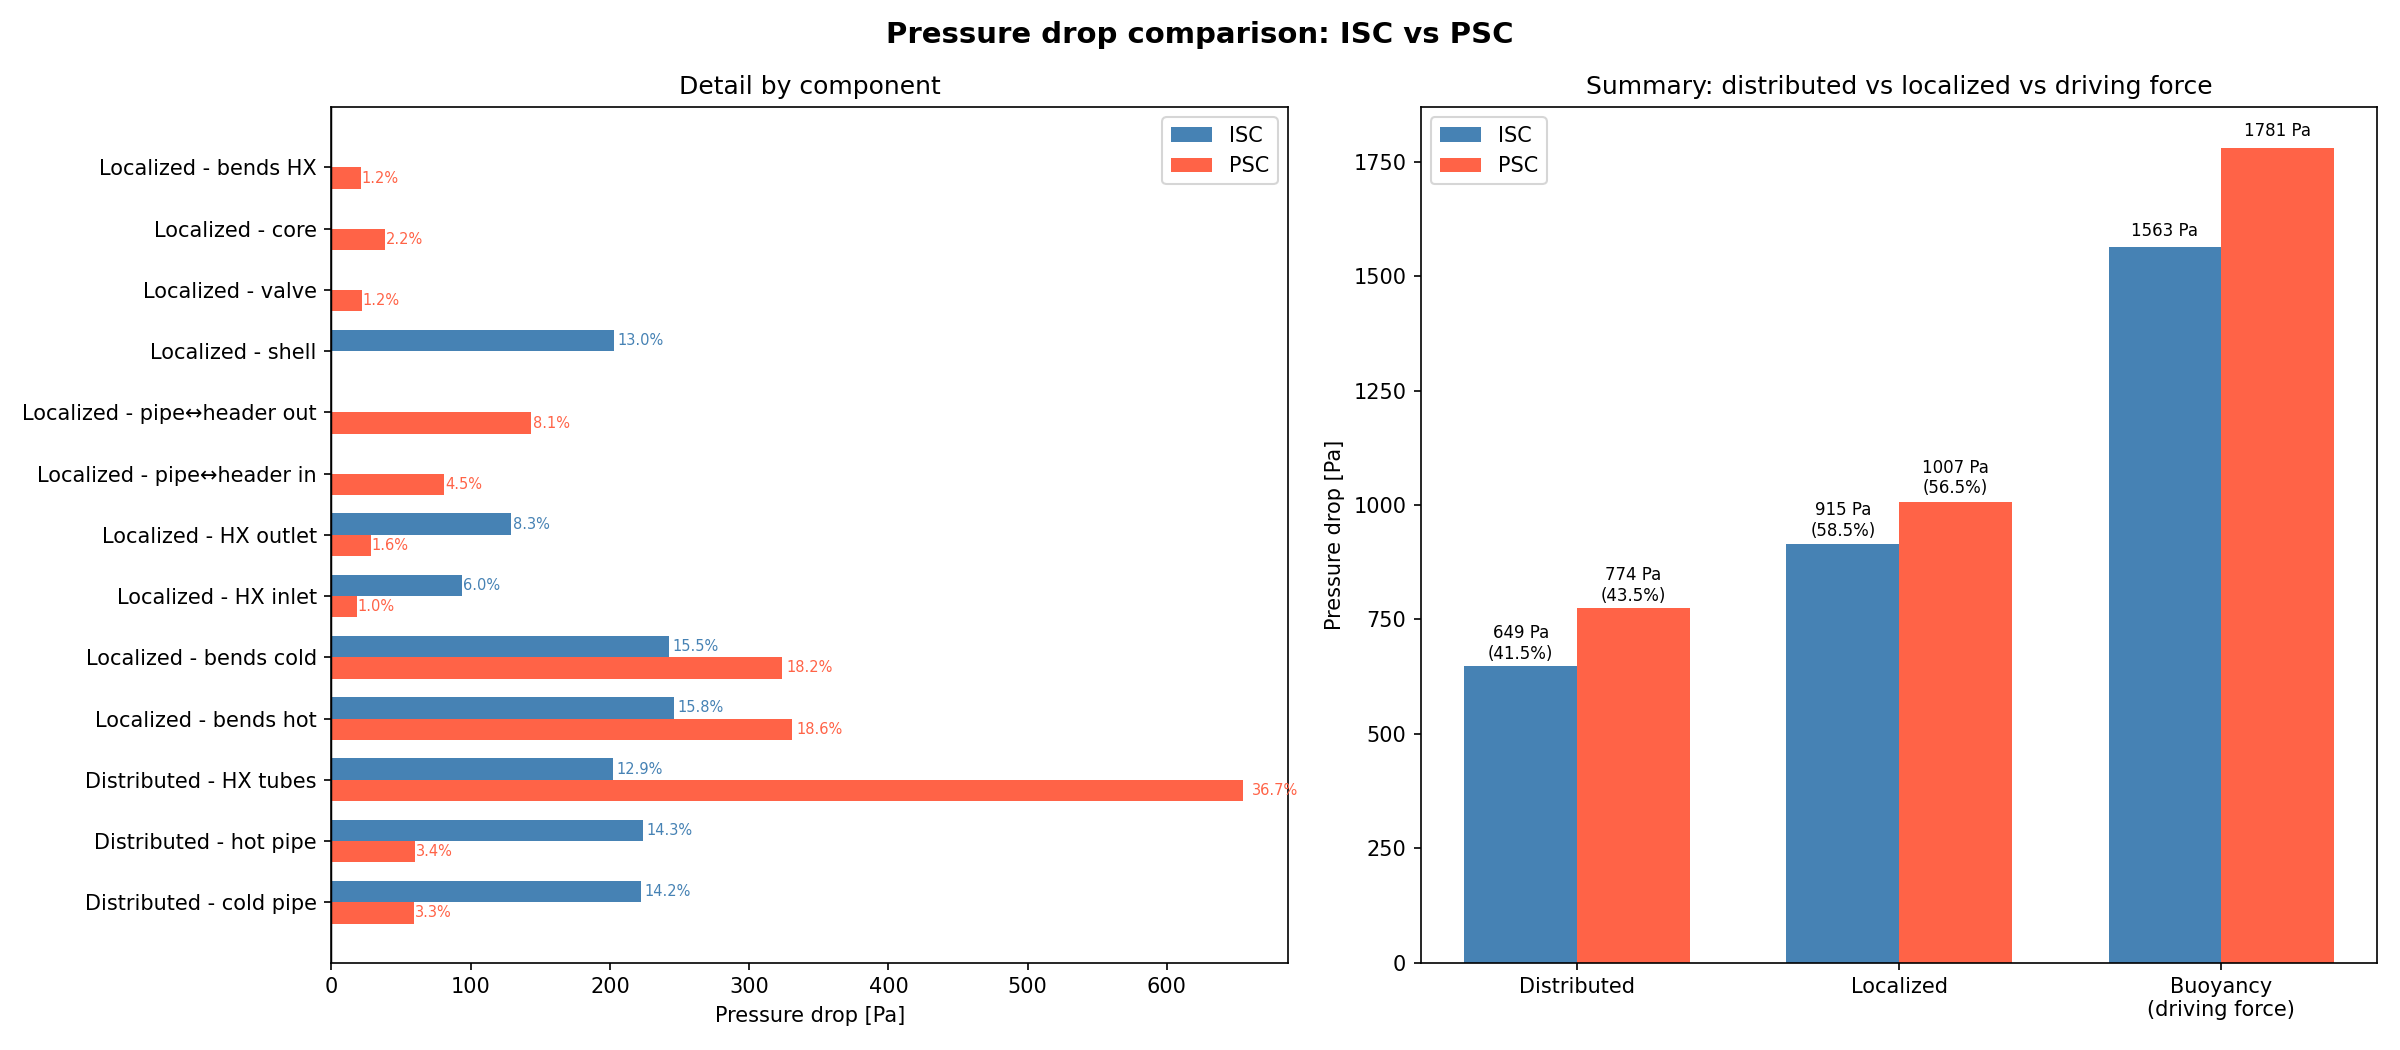
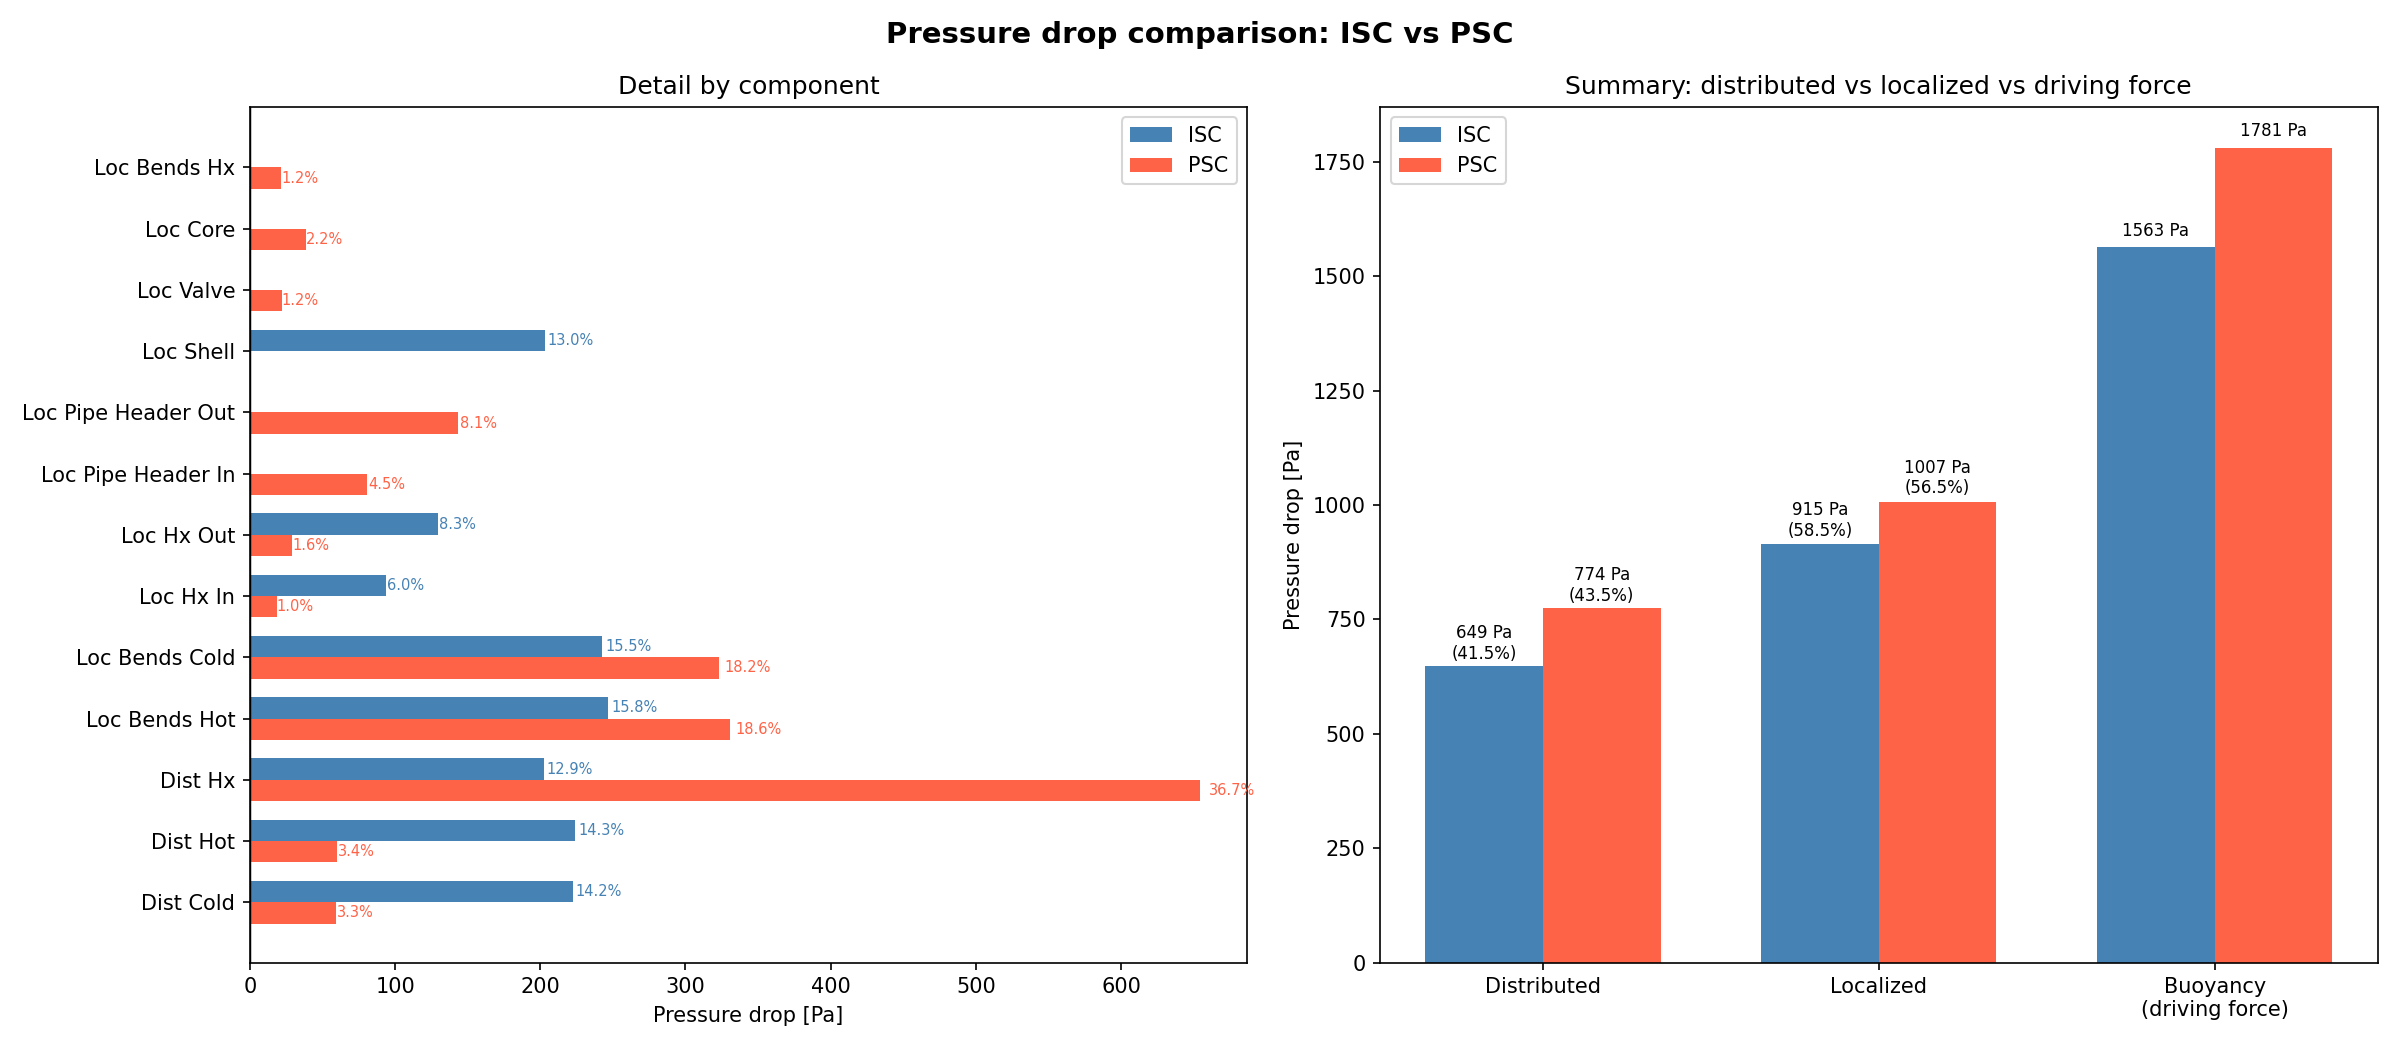
cose a caso sui grafici

diff --git a/assignment1/project2.py b/assignment1/project2.py
@@ -336,96 +336,41 @@ def plot_convergence(history_m_ISC, history_T_av_ISC, history_m_PSC, history_T_a
     plt.tight_layout()
     plt.savefig(os.path.join(out_dir, 'convergence.png'), dpi=150)
 
-
-def plot_temperature_summary(T_c_ISC, T_av_ISC, T_h_ISC, T_sat_ISC,
-                             T_c_PSC, T_av_PSC, T_h_PSC, T_sat_PSC, out_dir):
-    """Bar chart comparativo di T_c, T_av, T_h e T_sat per ISC e PSC."""
-    labels = ['T cold\n(outlet)', 'T average', 'T hot\n(inlet)', 'T sat\n(limit)']
-    vals_ISC = [T_c_ISC, T_av_ISC, T_h_ISC, T_sat_ISC]
-    vals_PSC = [T_c_PSC, T_av_PSC, T_h_PSC, T_sat_PSC]
-
-    x = np.arange(len(labels))
-    w = 0.35
-    fig, ax = plt.subplots(figsize=(9, 6))
-    bars_ISC = ax.bar(x - w/2, vals_ISC, w, label='ISC', color='steelblue')
-    bars_PSC = ax.bar(x + w/2, vals_PSC, w, label='PSC', color='tomato')
-
-    for bar in list(bars_ISC) + list(bars_PSC):
-        ax.text(bar.get_x() + bar.get_width()/2, bar.get_height() + 0.4,
-                f'{bar.get_height():.1f}', ha='center', va='bottom', fontsize=9)
-
-    ax.set_xticks(x)
-    ax.set_xticklabels(labels)
-    ax.set_ylabel('Temperature [°C]')
-    ax.set_title('Coolant temperatures: ISC vs PSC', fontsize=13, fontweight='bold')
-    ax.legend()
-    ax.grid(True, axis='y', alpha=0.3)
-    plt.tight_layout()
-    plt.savefig(os.path.join(out_dir, 'temperatures_summary.png'), dpi=150)
-
-
 def plot_pressure_drop_pies(dp_dict_ISC, m_ISC, dp_dict_PSC, m_PSC, out_dir):
-    """Torte affiancate: contributo percentuale di ogni componente alle perdite totali per ISC e PSC."""
-    component_labels = [
-        ('dist_cold',       'Distributed - cold pipe'),
-        ('dist_hot',        'Distributed - hot pipe'),
-        ('dist_HX',         'Distributed - HX tubes'),
-        ('loc_bends_hot',   'Localized - bends hot'),
-        ('loc_bends_cold',  'Localized - bends cold'),
-        ('loc_HX',          'Localized - HX in/out'),
-        ('loc_pipe_header', 'Localized - pipe↔header'),
-        ('loc_shell',       'Localized - shell'),
-        ('loc_valve',       'Localized - valve'),
-        ('loc_core',        'Localized - core'),
-        ('loc_bends_HX',    'Localized - bends HX'),
-    ]
-    keys   = [k for k, _ in component_labels]
-    labels = [l for _, l in component_labels]
+    """Due grafici a torta separati: uno per ISC e uno per PSC."""
+    keys = ['dist_cold', 'dist_hot', 'dist_HX',
+            'loc_bends_hot', 'loc_bends_cold', 'loc_HX_in', 'loc_HX_out',
+            'loc_pipe_header_in', 'loc_pipe_header_out',
+            'loc_shell', 'loc_valve', 'loc_core', 'loc_bends_HX']
+    labels = [k.replace('_', ' ').title() for k in keys]
 
     vals_ISC = np.array([dp_dict_ISC[k] * m_ISC**2 for k in keys])
     vals_PSC = np.array([dp_dict_PSC[k] * m_PSC**2 for k in keys])
 
-    # Tieni solo le voci con valore > 0
-    mask_ISC = vals_ISC > 0
-    mask_PSC = vals_PSC > 0
-
-    fig, (ax1, ax2) = plt.subplots(1, 2, figsize=(16, 7))
-    fig.suptitle('Pressure drop breakdown [%]: ISC vs PSC', fontsize=14, fontweight='bold')
-
-    ax1.pie(vals_ISC[mask_ISC], labels=np.array(labels)[mask_ISC],
-            autopct='%1.1f%%', startangle=140, pctdistance=0.82)
-    ax1.set_title('ISC')
-
-    ax2.pie(vals_PSC[mask_PSC], labels=np.array(labels)[mask_PSC],
-            autopct='%1.1f%%', startangle=140, pctdistance=0.82)
-    ax2.set_title('PSC')
-
-    plt.tight_layout()
-    plt.savefig(os.path.join(out_dir, 'pressure_drop_pies.png'), dpi=150)
+    for vals, mask_label, fname in [
+        (vals_ISC, 'ISC', 'pressure_drop_pie_ISC.png'),
+        (vals_PSC, 'PSC', 'pressure_drop_pie_PSC.png'),
+    ]:
+        mask = vals > 0
+        fig, ax = plt.subplots(figsize=(9, 7))
+        ax.pie(vals[mask], labels=np.array(labels)[mask],
+               autopct='%1.1f%%', startangle=140, pctdistance=0.82)
+        ax.set_title(f'Pressure drop breakdown [%] — {mask_label}', fontsize=13, fontweight='bold')
+        plt.tight_layout()
+        plt.savefig(os.path.join(out_dir, fname), dpi=150)
+        plt.close(fig)
 
 
 def plot_pressure_drops(dp_dict_ISC, m_ISC, dist_ISC, loc_ISC, dp_b_ISC,
                         dp_dict_PSC, m_PSC, dist_PSC, loc_PSC, dp_b_PSC, out_dir):
     """Genera due grafici affiancati: dettaglio per componente e riepilogo aggregato."""
 
-    # Etichette leggibili per ogni componente
-    component_labels = [
-        ('dist_cold',       'Distributed - cold pipe'),
-        ('dist_hot',        'Distributed - hot pipe'),
-        ('dist_HX',         'Distributed - HX tubes'),
-        ('loc_bends_hot',   'Localized - bends hot'),
-        ('loc_bends_cold',       'Localized - bends cold'),
-        ('loc_HX_in',            'Localized - HX inlet'),
-        ('loc_HX_out',           'Localized - HX outlet'),
-        ('loc_pipe_header_in',   'Localized - pipe\u2194header in'),
-        ('loc_pipe_header_out',  'Localized - pipe\u2194header out'),
-        ('loc_shell',            'Localized - shell'),
-        ('loc_valve',            'Localized - valve'),
-        ('loc_core',             'Localized - core'),
-        ('loc_bends_HX',         'Localized - bends HX'),
-    ]
-    keys   = [k for k, _ in component_labels]
-    labels = [l for _, l in component_labels]
+    # Etichette: stesse del CSV (k.replace('_', ' ').title())
+    keys = ['dist_cold', 'dist_hot', 'dist_HX',
+            'loc_bends_hot', 'loc_bends_cold', 'loc_HX_in', 'loc_HX_out',
+            'loc_pipe_header_in', 'loc_pipe_header_out',
+            'loc_shell', 'loc_valve', 'loc_core', 'loc_bends_HX']
+    labels = [k.replace('_', ' ').title() for k in keys]
 
     vals_ISC = [dp_dict_ISC[k] * m_ISC**2 for k in keys]
     vals_PSC = [dp_dict_PSC[k] * m_PSC**2 for k in keys]
@@ -674,15 +619,12 @@ out_dir = os.path.dirname(__file__)
 
 plot_convergence(history_m_ISC, history_T_av_ISC, history_m_PSC, history_T_av_PSC, out_dir)
 
-plot_temperature_summary(
-    T_c_res_ISC, T_av_res_ISC, T_h_res_ISC, T_sat_ISC,
-    T_c_res_PSC, T_av_res_PSC, T_h_res_PSC, T_sat_PSC,
-    out_dir
-)
-
 plot_pressure_drops(
     dp_dict_res_ISC, m_res_ISC, dist_total_ISC, loc_total_ISC, dp_b_res_ISC,
     dp_dict_res_PSC, m_res_PSC, dist_total_PSC, loc_total_PSC, dp_b_res_PSC,
     out_dir=out_dir
+)
+plot_pressure_drop_pies(
+    dp_dict_res_ISC, m_res_ISC, dp_dict_res_PSC, m_res_PSC, out_dir=out_dir
 )
 # plt.show()
